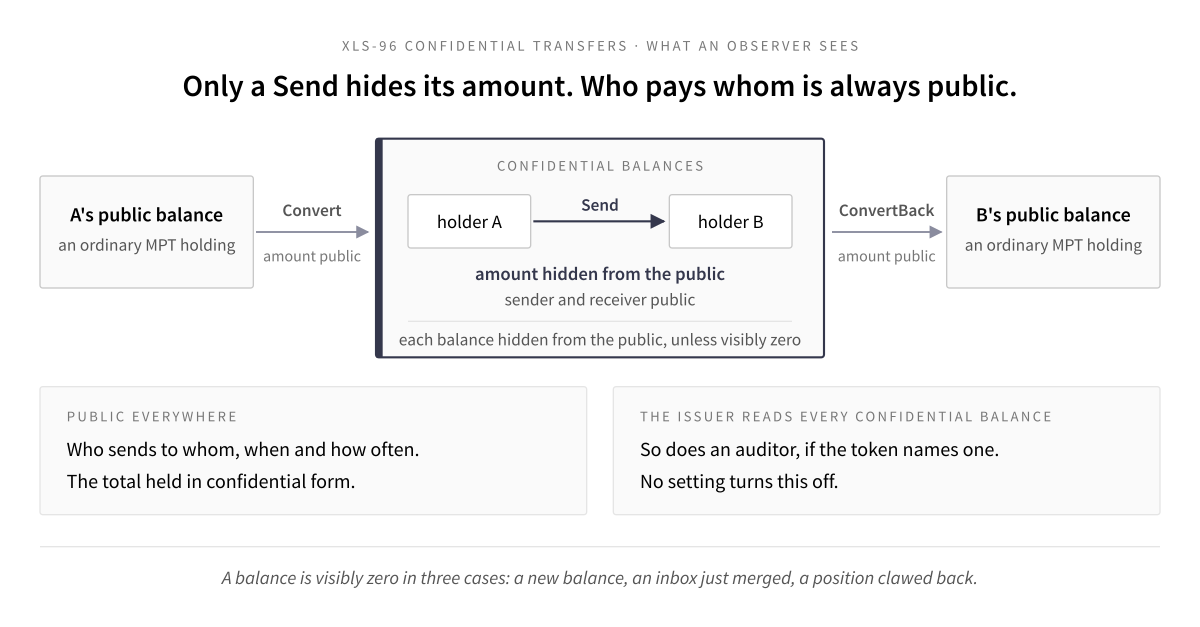
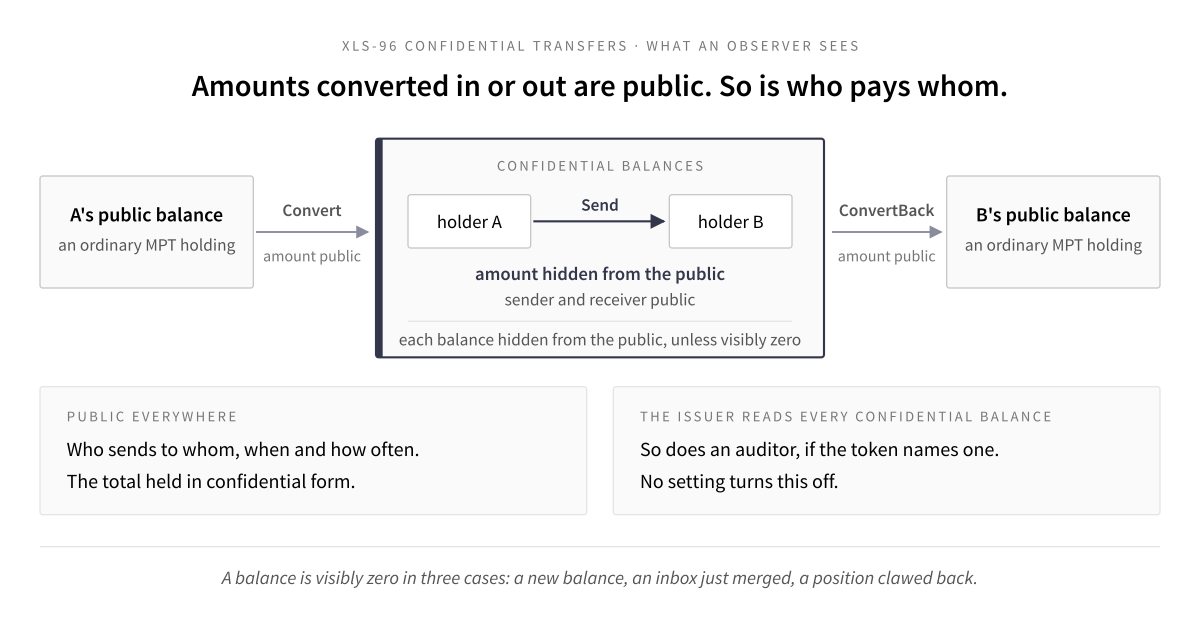
Amounts, not relationships: MergeInbox states no amount; clawback can be switched on later
Two corrections a RippleX reader pointed out, both checked at source
(xrpl-confidential-positions CLAIMS.md E-361, R-10, R-11):

- "Only Send hides an amount" read as though MergeInbox published one; it
  has no amount field. The post now says Convert and ConvertBack publish
  their amounts and Send and MergeInbox do not, and figure 1's tagline and
  the LinkedIn card drawn from it no longer say "only a Send".
- The post gave the "made unchangeable" condition for locking only, and
  only at creation. Under DynamicMPT an issuer can switch clawback or
  locking on after creating a token, unless it has made that setting
  unchangeable, at creation or later. The text, figure 2's alt text and
  the lost-key sentences now say so.

Body byte-identical to docs/posts/BLOG-2026-10-22-draft.md after the same
corrections; modified: 2026-10-24.

Gates: _tools/check_em_dashes.py (0 em dashes); bundle exec jekyll build
renders the corrected sentences and none of the retracted ones.

Claude-Session: https://claude.ai/code/session_01HepjHrqxJVFpDLJtAPCviq

Changed region(s): [[0.1542, 0.1212, 0.8633, 0.1818]]

diff --git a/_posts/writing/2026-10-23-amounts-not-relationships.md b/_posts/writing/2026-10-23-amounts-not-relationships.md
@@ -2,7 +2,7 @@
 layout: post
 title: "Amounts, not relationships: what confidential transfers on the XRP Ledger hide"
 excerpt: "XLS-96 lets a token holder keep balances encrypted on the public XRP Ledger. I built the core of a receivables facility on it and ran it on Devnet to see exactly where the line falls. It hides how much moves inside confidential form. It does not hide who pays whom, when, the amounts at the edges, or anything from the issuer."
-modified: 2026-10-23
+modified: 2026-10-24
 category: writing
 tags: [XRP Ledger, Confidential Transfers, Zero-Knowledge Proofs, Digital Assets]
 author: nandan
@@ -130,10 +130,11 @@ A position moves through four transactions:
   inbox. The amount is hidden. The sender and receiver are not.
 - **MergeInbox** moves the inbox into the balance the holder can spend. Arrivals
   wait in the inbox so that they cannot change a balance while a proof about it is
-  being built, and they cannot be sent until they are merged.
+  being built, and they cannot be sent until they are merged. It states no amount:
+  the whole inbox moves, still encrypted, and the holder's total does not change.
 - **ConvertBack** moves tokens back to a public balance. The amount is published.
 
-Only Send hides an amount.
+Convert and ConvertBack publish their amounts. Send and MergeInbox do not (E-361).
 
 The specification, XLS-0096, is the work of Murat Cenk, Aanchal Malhotra, Ayo
 Akinyele, Peter Chen, Shawn Xie and Yinyi Qian, and is a final standard (E-1). The
@@ -183,12 +184,14 @@ the account's master seed, as this project derives it, whoever holds the seed ho
 the secret too. The issuer cannot spend a holder's balance. If the token allows
 clawback, a setting that lets an issuer take tokens back, the issuer can destroy a
 confidential balance, crediting no one, and this project's tokens allow clawback
-(E-12). Unless the token's flags were made unchangeable when it was created, the
-issuer can also turn on locking later and freeze balances. That second power I read
-in rippled's source and did not run (E-290).
+(E-12). On Devnet an issuer can also switch clawback on after creating a token, and
+the same goes for locking, which freezes balances. Only making that setting
+unchangeable prevents it, and an issuer can do that when it creates the token or at
+any time later; this project's tokens have no setting made unchangeable. These
+powers I read in rippled's source and did not run (E-290, E-361).
 
 <figure>
-  <img src="/images/posts/amounts-not-relationships/figure-2-who-can-read-who-can-spend.svg" alt="A table of who can see what. Columns: who pays whom and when; amounts converted in or out; a holder's balance; a Send's amount; can spend a balance. Anyone: yes, yes, only whether it is visibly zero, no, no. A holder: yes, yes, their own, their own, their own with both their keys. The issuer, highlighted: yes, yes, every one, every one, and no, though if the token's settings allow, it can destroy or freeze one. An auditor, if the token names one: yes, yes, every one, every one, no. The issuer can destroy a balance only if the token allows clawback, and can freeze one only if locking was allowed when the token was created or can still be turned on.">
+  <img src="/images/posts/amounts-not-relationships/figure-2-who-can-read-who-can-spend.svg" alt="A table of who can see what. Columns: who pays whom and when; amounts converted in or out; a holder's balance; a Send's amount; can spend a balance. Anyone: yes, yes, only whether it is visibly zero, no, no. A holder: yes, yes, their own, their own, their own with both their keys. The issuer, highlighted: yes, yes, every one, every one, and no, though if the token's settings allow, it can destroy or freeze one. An auditor, if the token names one: yes, yes, every one, every one, no. The issuer can destroy a balance only if the token allows clawback, and freeze one only if it allows locking; an issuer can switch either on later unless it has made that setting unchangeable.">
   <figcaption>Figure 2. Who can read what, and who can spend. A dashed cell is a partial yes.</figcaption>
 </figure>
 
@@ -215,8 +218,8 @@ A registered key can never be changed (E-9). XLS-96 has no key rotation and no k
 recovery (P-10). A holder who loses their encryption key loses access to the balance
 (E-10). In this project the key is derived from the account's master seed, so it can
 be re-derived while the seed survives; lose both, and the balance cannot be spent. If
-the token allows clawback, the issuer can remove such a balance, and a clawback
-destroys it.
+the token allows clawback, or the issuer can still switch it on, the issuer can
+remove such a balance, and a clawback destroys it.
 
 A draft standard, XLS-99, by Aanchal Malhotra and Yinyi Qian, proposes rotation for
 holder, issuer and auditor keys, and recovery from key loss. When I checked, rippled
@@ -277,10 +280,11 @@ supplier drew, and when, is public.
    is supported (E-11). That is a statement about who can decrypt what, not a claim
    that it meets any regulator's requirements (P-6).
 6. **A lost key:** if a supplier loses its key and the seed it was derived from, the
-   balance cannot be spent (P-10, E-10). If the token allows clawback, the bank can
-   remove it, and a clawback destroys it (E-12).
+   balance cannot be spent (P-10, E-10). If the token allows clawback, or the bank
+   can still switch it on, the bank can remove it, and a clawback destroys it (E-12).
 7. **The bank, as issuer:** it cannot spend a supplier's balance. If the token's
-   settings allow, it can destroy one or freeze one (E-12, E-290).
+   settings allow, or it can still switch them on, it can destroy one or freeze one
+   (E-12, E-290, E-361).
 
 So the business case holds for amounts and fails for relationships. A supplier that
 minds being seen to borrow at all, or how often, gets no cover from XLS-96.
